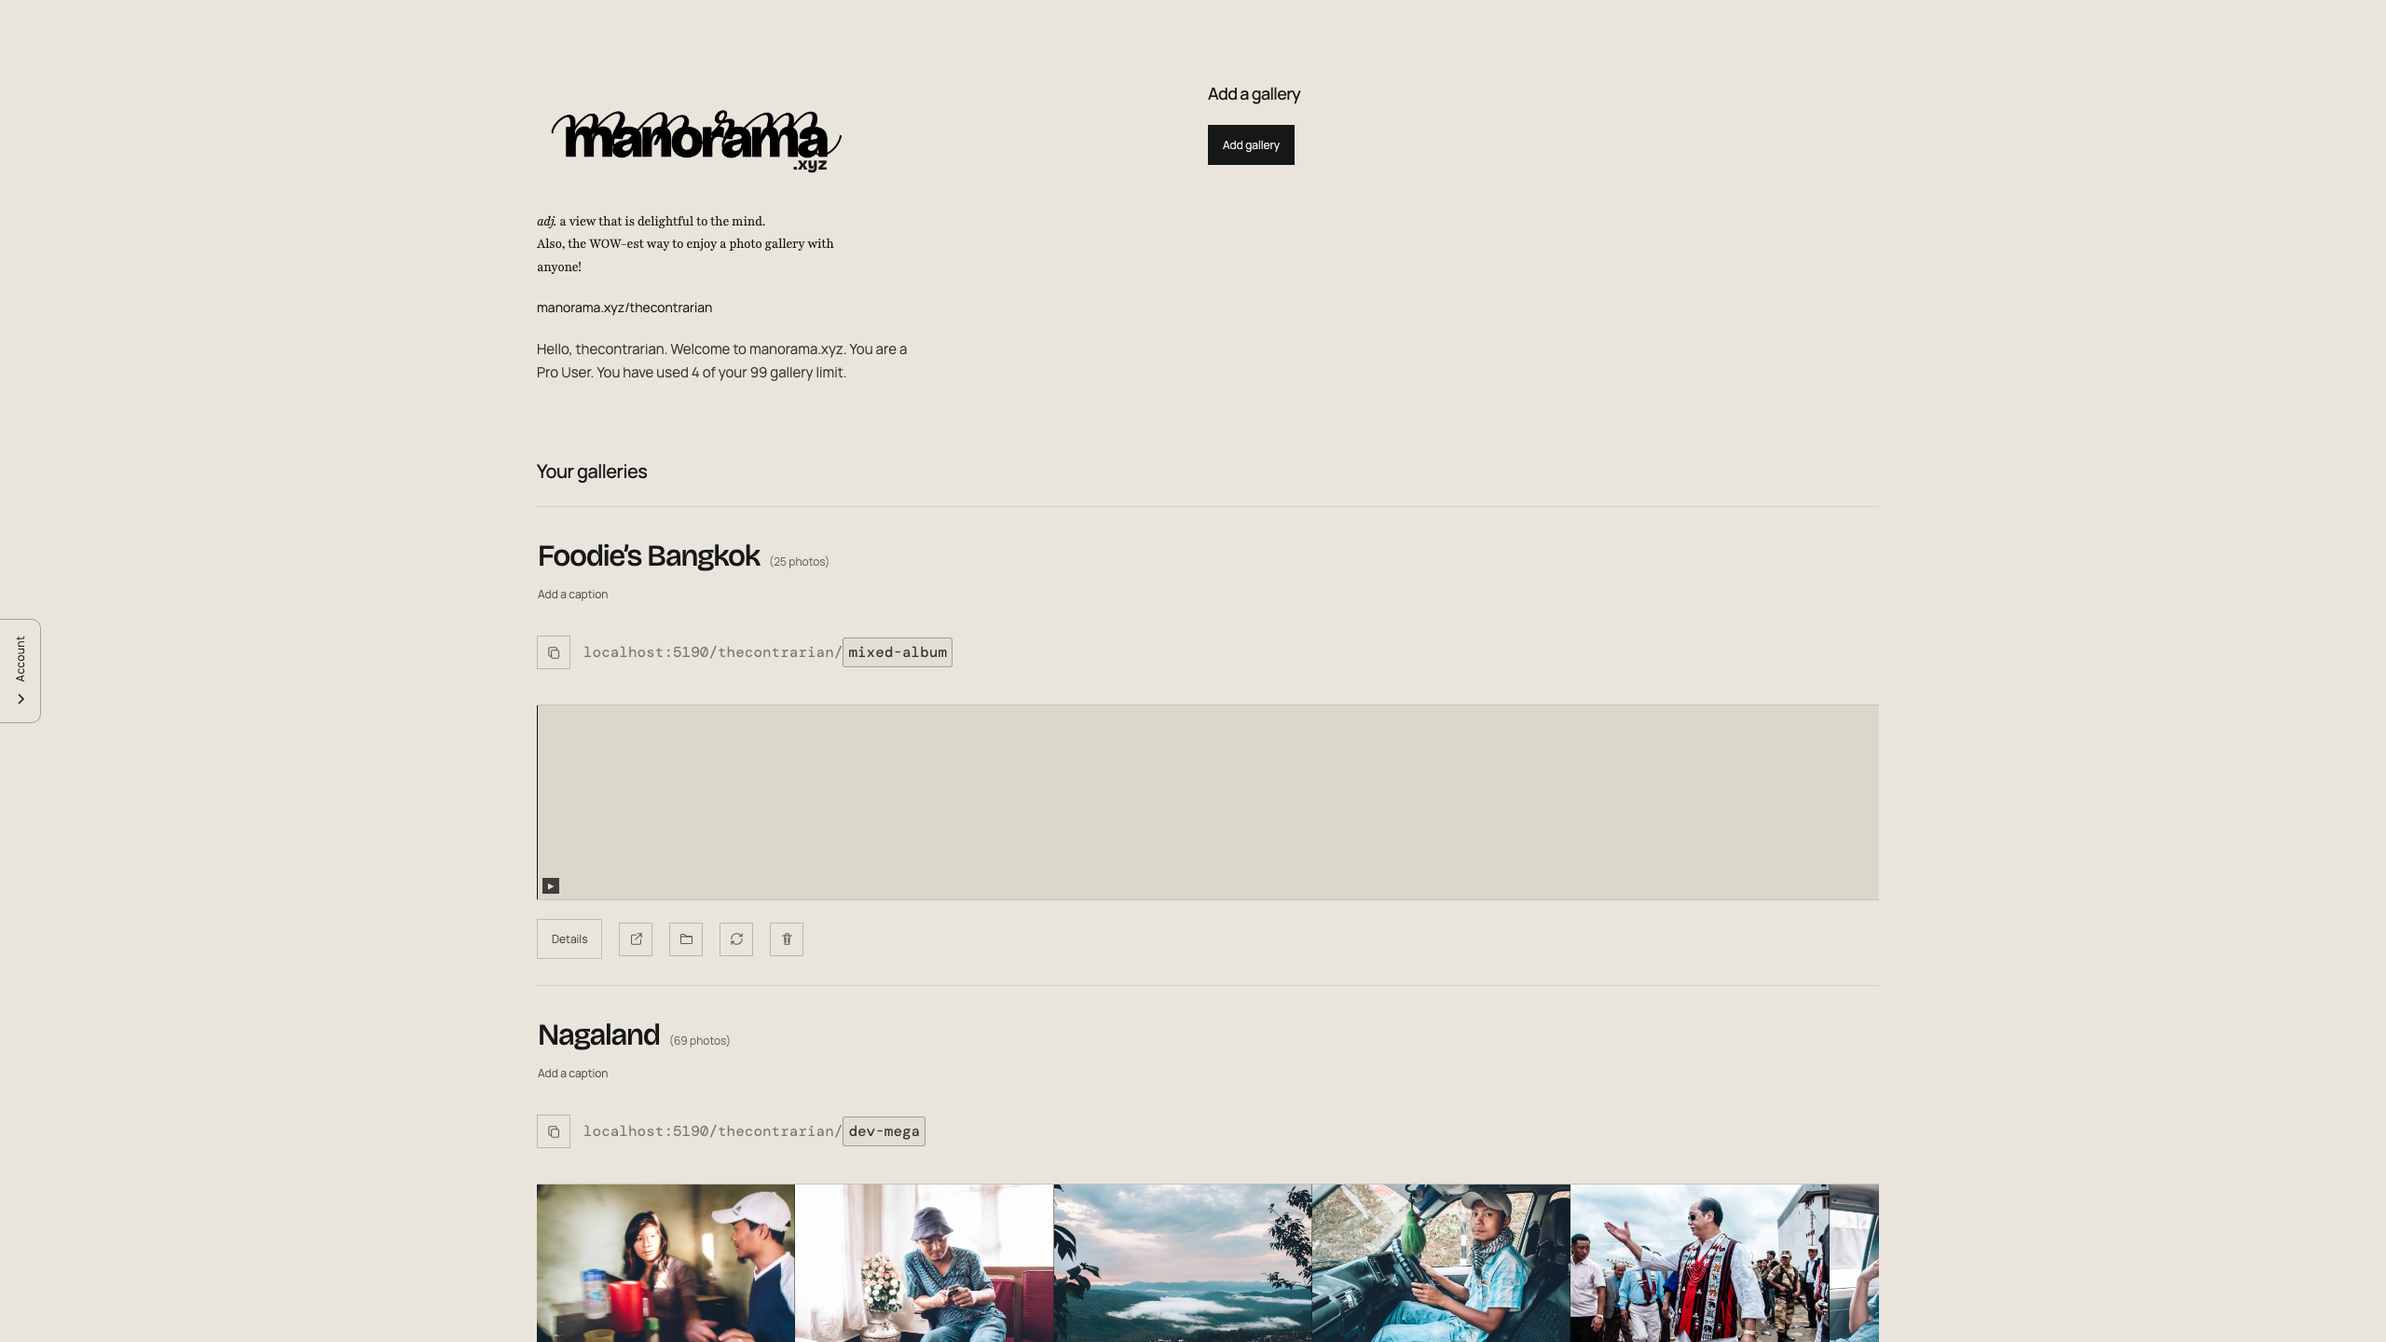
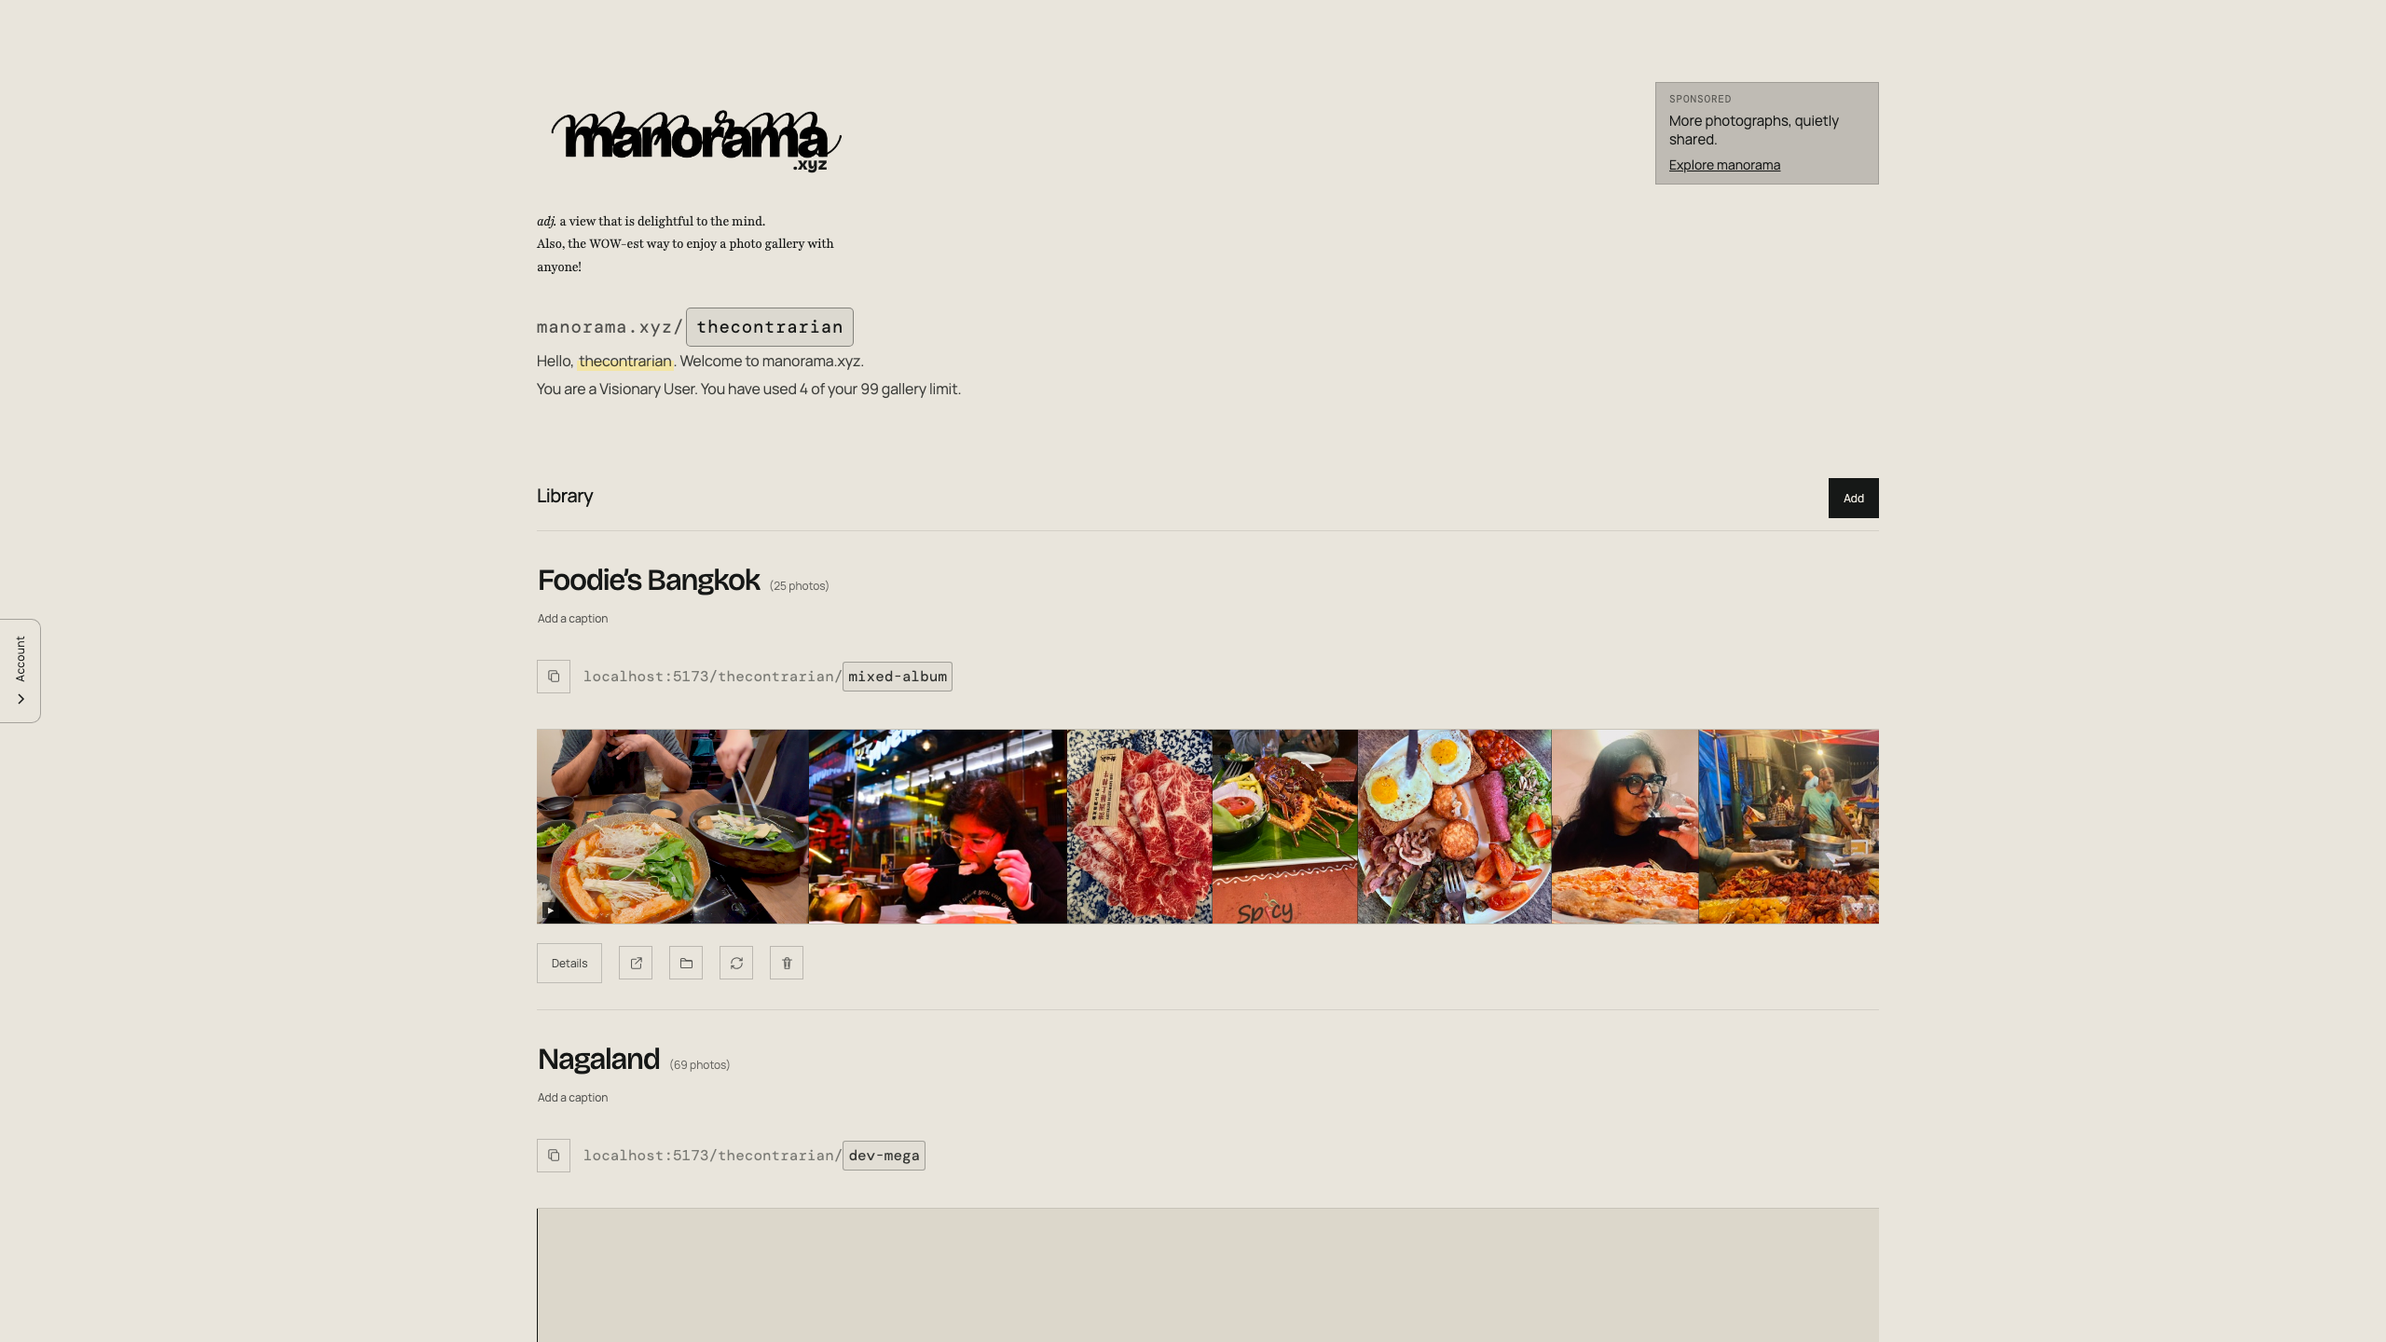
feat(admin): align the web Library top with the native account surface
The dashboard carried a redundant 'Add a gallery' heading over an 'Add
gallery' button and a static profile address while the native Library had
the editable address field, the compact heading row and the sponsored
slot. The web top now shares that structure and the house creative; the
Library footer's privacy link uses the native Privacy screen instead of
opening our own domain inside the in-app browser.

diff --git a/app/islands/Admin.tsx b/app/islands/Admin.tsx
@@ -226,8 +226,23 @@ export default function Admin({ galleries: initialGalleries, owner, ownerName, p
   }
 
   const [ownerSlugDraft, setOwnerSlugDraft] = useState(owner)
+  const [adsShow, setAdsShow] = useState(false)
   const [theme, setTheme] = useState<Theme>(() =>
     readStoredTheme(typeof localStorage === 'undefined' ? null : localStorage))
+
+  // The web account surface carries the same sponsored slot the native
+  // Library does. Undefined (offline, unanswered) means show — suppression
+  // is a courtesy switch, not a gate.
+  useEffect(() => {
+    let live = true
+    void fetch('/api/ads/visibility')
+      .then((response) => (response.ok ? response.json() : null))
+      .then((payload: unknown) => {
+        if (live) setAdsShow(payload !== null ? (payload as { show?: boolean }).show !== false : true)
+      })
+      .catch(() => { if (live) setAdsShow(true) })
+    return () => { live = false }
+  }, [])
 
   // Quick-add resume. The `manorama_oauth_next` cookie is the real record
   // of an interrupted /<share-url> flow; this is the fallback for when it
@@ -832,17 +847,43 @@ export default function Admin({ galleries: initialGalleries, owner, ownerName, p
           <span class="brand-tld" aria-hidden="true">.xyz</span>
         </span>
         <p class="admin-intro"><em>adj.</em> a view that is delightful to the mind.<br />Also, the WOW-est way to enjoy a photo gallery with anyone!</p>
-        <p class="admin-profile-address">manorama.xyz/{owner}</p>
-        <p class="admin-welcome-note">Hello, {ownerName || owner}. Welcome to manorama.xyz. You are a {tier === 'pro' ? 'Visionary' : 'Free'} User. {retainedCount <= retainedLimit ? `You have used ${retainedCount} of your ${retainedLimit} gallery limit.` : `You have ${retainedCount} retained galleries. Your plan includes ${retainedLimit} editable gallery slots; all your galleries are listed below.`}</p>
+        <div class="admin-greeting">
+          <p class="admin-greeting-url">manorama.xyz/<input
+            class="admin-owner-slug-input"
+            type="text"
+            value={ownerSlugDraft}
+            aria-label="Your URL — edit to change your address"
+            spellcheck={false}
+            autoCapitalize="none"
+            autoCorrect="off"
+            onInput={(event) => { setSettingsNote(''); setOwnerSlugDraft((event.currentTarget as HTMLInputElement).value) }}
+            onKeyDown={(event) => {
+              if (event.key === 'Escape') cancelOwnerSlugEditing()
+              if (event.key === 'Enter') { event.preventDefault(); void saveOwnerSlug() }
+            }}
+            onBlur={() => { void saveOwnerSlug() }}
+          /></p>
+          <p class="admin-greeting-hello">Hello, <mark class="admin-greeting-name">{ownerName || owner}</mark>. Welcome to manorama.xyz.</p>
+          <p class="admin-greeting-plan">You are a {tier === 'pro' ? 'Visionary' : 'Free'} User. {retainedCount <= retainedLimit ? `You have used ${retainedCount} of your ${retainedLimit} gallery limit.` : `You have ${retainedCount} retained galleries. Your plan includes ${retainedLimit} editable gallery slots; all your galleries are listed below.`}</p>
+          {settingsNote ? <p class="admin-welcome-note" role="status">{settingsNote}</p> : null}
+        </div>
       </section>
-      <section class="admin-add-gallery" aria-labelledby="add-heading">
-        <div class="gallery-selector-heading"><h2 id="add-heading">Add a gallery</h2></div>
-        <button type="button" class="admin-button admin-button--solid" onClick={() => { setAddError(null); setAddOpen(true) }} disabled={busy}>Add gallery</button>
-      </section>
+      {adsShow ? (
+        /* The sponsored slot sits opposite the welcome — the same house
+           creative and header placement the native account surface uses. */
+        <aside class="account-ad" aria-label="Sponsored: manorama">
+          <span class="account-ad-badge">Sponsored</span>
+          <strong class="account-ad-headline">More photographs, quietly shared.</strong>
+          <a class="account-ad-cta" href="https://manorama.xyz" target="_blank" rel="noopener">Explore manorama</a>
+        </aside>
+      ) : null}
       </div>
 
       <section class="gallery-list" aria-labelledby="galleries-heading">
-        <h1 class="admin-galleries-heading" id="galleries-heading">Your galleries</h1>
+        <div class="admin-library-heading">
+          <h1 class="admin-galleries-heading" id="galleries-heading">Library</h1>
+          <button type="button" class="admin-button admin-button--solid" onClick={() => { setAddError(null); setAddOpen(true) }} disabled={busy}>Add</button>
+        </div>
         {liveGalleries.length ? <div class="admin-gallery-list">{liveGalleries.map((gallery) => <article class="admin-gallery-card" key={gallery.slug} data-gallery-card={gallery.slug} data-retention={gallery.retention}>
           <div class="admin-gallery-card-body"><div class="admin-gallery-title-row">{editableText(gallery, 'title', 'admin-gallery-title')}<span class="admin-gallery-count" aria-label={`${gallery.imageCount} photos`}>({gallery.imageCount} photos)</span></div>{editableText(gallery, 'caption', 'admin-gallery-caption')}</div>
           {isLocked(gallery) && gallery.expiresAt ? <div class="admin-gallery-retention" id={`retention-${gallery.slug}`}>

diff --git a/app/styles.css b/app/styles.css
@@ -1981,6 +1981,33 @@ body:has(.ops-page) { overflow: auto; overflow-x: clip; background: #111312; }
 .admin-overview .gallery-import-form .admin-button { justify-self: start; }
 .admin-overview .admin-retention-policy { margin: 0 0 22px; }
 .admin-galleries-heading { margin: 0 0 24px; color: rgb(var(--ink)); font-size: 20px; font-weight: 500; letter-spacing: -.025em; }
+.admin-library-heading { display: flex; align-items: baseline; justify-content: space-between; gap: 16px; }
+.admin-library-heading .admin-galleries-heading { margin-bottom: 24px; }
+
+/* Account surface sponsored slot: one labelled slot opposite the welcome,
+   in normal document flow so it can never sit over the controls. It wraps
+   under the welcome when the overview column is narrow. */
+.account-ad {
+  justify-self: end;
+  align-self: start;
+  width: min(240px, 100%);
+  display: grid;
+  gap: 8px;
+  align-content: start;
+  padding: 12px 14px;
+  border: 1px solid rgba(var(--ink), .18);
+  background: rgba(0, 0, 0, .18);
+}
+.account-ad-badge {
+  color: rgba(var(--ink), .62);
+  font-family: 'DM Mono', ui-monospace, monospace;
+  font-size: 11px;
+  letter-spacing: .08em;
+  line-height: 1;
+  text-transform: uppercase;
+}
+.account-ad-headline { color: rgb(var(--ink)); font-size: 15px; font-weight: 400; line-height: 1.35; }
+.account-ad-cta { color: rgb(var(--ink)); font-size: 14px; line-height: 1.2; }
 @media (min-width: 820px) {
   /* The page's asymmetric edge-tab gutter would pull a simple 50/50 split
      right of the physical centre. Compensate so neither top block crosses it. */

diff --git a/packages/core/owner-navigation.ts b/packages/core/owner-navigation.ts
@@ -22,7 +22,7 @@ export type OwnerScreen =
       detailsFrom?: 'library' | 'viewer'
     }
   | { kind: 'settings' }
-  | { kind: 'privacy'; from: 'welcome' | 'settings' | 'visionary' }
+  | { kind: 'privacy'; from: 'welcome' | 'library' | 'settings' | 'visionary' }
   | { kind: 'visionary'; from: 'library' | 'settings' }
 
 export type OwnerNavState = {
@@ -41,7 +41,7 @@ export type OwnerNavAction =
   | { type: 'open-reorder'; gallery: GalleryIdentity; from: 'library' | 'details' }
   | { type: 'open-settings' }
   | { type: 'open-visionary'; from: 'library' | 'settings' }
-  | { type: 'open-privacy'; from: 'welcome' | 'settings' | 'visionary' }
+  | { type: 'open-privacy'; from: 'welcome' | 'library' | 'settings' | 'visionary' }
   | { type: 'back' }
 
 export const initialOwnerNav = (signedIn: boolean): OwnerNavState => ({
@@ -126,6 +126,7 @@ export const ownerNavReducer = (state: OwnerNavState, action: OwnerNavAction): O
         case 'privacy':
           if (screen.from === 'settings') return { screen: { kind: 'settings' }, viewer: null }
           if (screen.from === 'visionary') return { screen: { kind: 'visionary', from: 'library' }, viewer: null }
+          if (screen.from === 'library') return { screen: { kind: 'library' }, viewer: null }
           return { screen: { kind: 'welcome' }, viewer: null }
         case 'library':
         case 'welcome':

diff --git a/native/islands/GalleryList.account.test.tsx b/native/islands/GalleryList.account.test.tsx
@@ -1475,15 +1475,19 @@ describe('signed-in account area', () => {
 })
 
 describe('native-only placement', () => {
-  test('the web dashboard carries no account slot', () => {
+  /* The web dashboard carries the same house-creative slot as the native
+     account surface, but rented frames stay native-only — no AdMob markup
+     or native ad classes may appear in the web bundle. */
+  test('the web dashboard carries only the house creative', () => {
     const appDir = fileURLToPath(new URL('../../app', import.meta.url))
     const sources = (readdirSync(appDir, { recursive: true }) as string[]).filter((file) =>
-      /\.(ts|tsx|css)$/.test(file),
+      /\.(ts|tsx|css)$/.test(file) && !file.includes('app-ads.txt'),
     )
     expect(sources.length).toBeGreaterThan(0)
-    const withSlot = sources.filter((file) =>
-      readFileSync(join(appDir, file), 'utf8').includes('account-ad'),
-    )
-    expect(withSlot).toHaveLength(0)
+    const withRented = sources.filter((file) => {
+      const source = readFileSync(join(appDir, file), 'utf8')
+      return source.includes('native-account-ad') || source.toLowerCase().includes('admob')
+    })
+    expect(withRented).toHaveLength(0)
   })
 })

diff --git a/app/admin-retention.render.test.ts b/app/admin-retention.render.test.ts
@@ -124,13 +124,13 @@ describe('the dashboard renders retention state', () => {
     expect(html).not.toContain('aria-label="Reorder Locked images"')
   })
 
-  test('welcome and import share the top level with galleries below both', async () => {
+  test('welcome and the sponsored slot share the top level with galleries below both', async () => {
     const html = await renderDashboard(seedPipelineOwner)
     expect(html).toContain('class="admin-overview"')
     expect(html).toContain('aria-label="Welcome to manorama"')
     expect(html).toContain('You are a Free User. You have used 3 of your 3 gallery limit.')
-    expect(html.indexOf('class="admin-welcome"')).toBeLessThan(html.indexOf('id="add-heading"'))
-    expect(html.indexOf('id="add-heading"')).toBeLessThan(html.indexOf('id="galleries-heading"'))
+    expect(html.indexOf('class="admin-welcome"')).toBeLessThan(html.indexOf('class="admin-library-heading"'))
+    expect(html.indexOf('class="admin-library-heading"')).toBeLessThan(html.indexOf('class="admin-gallery-list"'))
     expect(html).toContain('aria-labelledby="galleries-heading"')
   })
 

diff --git a/qa.playwright.ts b/qa.playwright.ts
@@ -2396,7 +2396,7 @@ test("owner admin lists galleries without a selector and remains noindex", async
   // page's own h1 is now the galleries heading.
   await expect(page.locator("h1.admin-galleries-heading")).toBeVisible();
   await expect(
-    page.getByRole("button", { name: "Add gallery", exact: true }),
+    page.getByRole("button", { name: "Add", exact: true }),
   ).toBeVisible();
   await expect(page.locator(".admin-gallery-card").first()).toBeVisible();
   await expect(page.getByRole("combobox")).toHaveCount(0);
@@ -2832,7 +2832,7 @@ test("Manorama-fication adds a gallery directly without an intermediate preview"
   ).toBeVisible();
   await expect(page.locator(".dropbox-scan")).toHaveCount(0);
   await expect(page.getByRole("dialog", { name: "Add gallery" })).toHaveCount(0);
-  await expect(page.getByRole("button", { name: "Add gallery", exact: true })).toHaveCount(1);
+  await expect(page.getByRole("button", { name: "Add", exact: true })).toHaveCount(1);
 });
 
 

diff --git a/native/islands/GalleryList.tsx b/native/islands/GalleryList.tsx
@@ -1759,7 +1759,7 @@ export default function GalleryList({ apiBase, owner, slug, deepLinkSelection, o
             on narrow ones the wrapper dissolves (display:contents) and the
             footer's order puts it last in the stacked page. */}
         <footer class="site-footer native-legal">
-          <a class="site-footer-link" href={PRIVACY_URL} onClick={(event) => { event.preventDefault(); openExternal(PRIVACY_URL) }}>Privacy Policy</a>
+          <a class="site-footer-link" href={PRIVACY_URL} onClick={(event) => { event.preventDefault(); dispatchNav({ type: 'open-privacy', from: 'library' }) }}>Privacy Policy</a>
           <p class="site-footer-copy">© 2026 Mahesh Shantaram · <a href={AUTHOR_URL} onClick={(event) => { event.preventDefault(); openExternal(AUTHOR_URL) }}>thecontrarian.in</a></p>
         </footer>
 

diff --git a/admin-appearance.playwright.ts b/admin-appearance.playwright.ts
@@ -52,8 +52,8 @@ for (const size of sizes) {
         await expect(page.getByText('Photo Editor', { exact: true })).toHaveCount(0)
 
         const welcome = page.getByRole('region', { name: 'Welcome to manorama' })
-        const importer = page.getByRole('region', { name: 'Add a gallery' })
-        const heading = page.getByRole('heading', { name: 'Your galleries', exact: true })
+        const importer = page.locator('.account-ad')
+        const heading = page.getByRole('heading', { name: 'Library', exact: true })
         await expect(welcome).toBeVisible()
         await expect(importer).toBeVisible()
         const welcomeBox = (await welcome.boundingBox())!

diff --git a/app/server.test.ts b/app/server.test.ts
@@ -142,7 +142,7 @@ describe('owner dashboard authentication', () => {
     expect(response.status).toBe(200)
     expect(response.headers.get('content-type')).toContain('text/html')
     const html = await response.text()
-    expect(html).toContain('Add a gallery')
+    expect(html).toContain('>Library<')
     expect(html).toContain('>Settings</button>')
     expect(html).not.toContain('vendo-root')
     expect(html).not.toContain('vendo-client')

diff --git a/web-owner-integration.playwright.ts b/web-owner-integration.playwright.ts
@@ -63,8 +63,8 @@ test('add-gallery CTA opens the shared sheet with URL and optional Name and clos
       }
     })
 
-    const cta = page.locator('.admin-add-gallery button')
-    await expect(cta).toHaveText('Add gallery')
+    const cta = page.locator('.admin-library-heading button')
+    await expect(cta).toHaveText('Add')
     await cta.click()
 
     const dialog = page.getByRole('dialog', { name: 'Add gallery', exact: true })
